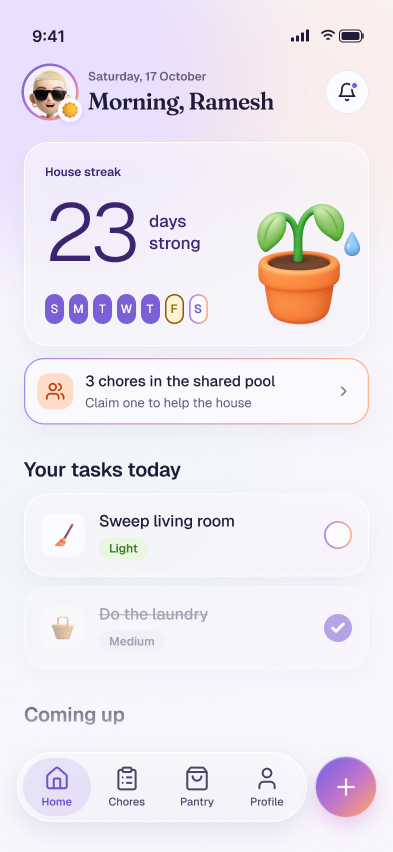
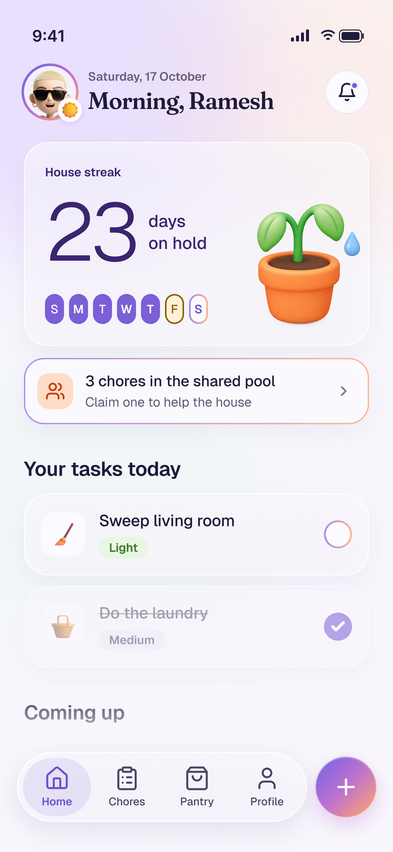
fix(app): a drooping streak says on hold, not strong; droop plant sits in from the edge
- streakWords(): strong while healthy, on hold while a chore is waiting (tested)
- droop art inset so its water drop stays inside the card
- case study: Missed chore screen re-exported with the new copy
- site wall: the You're in confetti screen replaces the plain profile screen

diff --git a/apps/mobile/src/ui/v2/streak.tsx b/apps/mobile/src/ui/v2/streak.tsx
@@ -1,7 +1,7 @@
 import { Image } from 'expo-image';
 import { StyleSheet, View } from 'react-native';
 import Animated, { FadeIn } from 'react-native-reanimated';
-import { plantFor, type PlantStage } from '@/lib/plant';
+import { plantFor, streakWords, type PlantStage } from '@/lib/plant';
 import { durations, useCountUp, useReducedMotion } from '../motion';
 import { color } from '../tokens';
 import { DAY_LETTERS } from './fields';
@@ -35,8 +35,7 @@ function Pill({ state, letter }: { state: DayState; letter: string }) {
 export function StreakCard({ days, week, drooped = false }: { days: number; week: DayState[]; drooped?: boolean }) {
   const reduced = useReducedMotion();
   const stage = plantFor(days, drooped);
-  // zero is a seed just planted (day one, or after a reset), so it invites instead of bragging
-  const words = days === 0 ? ['day', 'let’s grow'] : days === 1 ? ['day', 'together'] : ['days', 'strong'];
+  const words = streakWords(days, drooped);
   const shown = useCountUp(days);
   const fade = reduced ? undefined : FadeIn.duration(durations.enter);
   return (
@@ -58,7 +57,7 @@ ${words[1]}`}</Txt>
           ))}</View>
         </View>
         <View style={styles.art}>
-          <Animated.View key={stage} entering={fade} style={styles.artImage}>
+          <Animated.View key={stage} entering={fade} style={[styles.artImage, drooped && styles.artDroop]}>
             <Image source={PLANT_ART[stage]} style={{ width: '100%', height: '100%' }} contentFit="contain" accessibilityIgnoresInvertColors />
           </Animated.View>
         </View>
@@ -78,4 +77,6 @@ const styles = StyleSheet.create({
   // Figma has it: 16 pt in from the card's right edge, 20 pt from the top, 22 pt from the bottom (191 pt square)
   art: { width: 132, height: 162 },
   artImage: { position: 'absolute', top: -11, right: -36, bottom: -18, left: -23 },
+  // the droop art carries a water drop on its right, so it sits further in to keep the drop off the card edge
+  artDroop: { right: -6, left: -17, top: -2, bottom: -12 },
 });

diff --git a/apps/mobile/src/lib/plant.test.ts b/apps/mobile/src/lib/plant.test.ts
@@ -1,5 +1,5 @@
-import { expect, test } from 'vitest';
-import { milestoneState, plantFor } from './plant';
+import { describe, expect, it, test } from 'vitest';
+import { milestoneState, plantFor, streakWords } from './plant';
 
 test('the plant only changes at the 3, 7, 14 and 30 day milestones', () => {
   expect([0, 2, 3, 6, 7, 13, 14, 29, 30, 120].map((d) => plantFor(d, false)))
@@ -23,4 +23,17 @@ test('a milestone is celebrated once, at the highest one reached', () => {
 test('a broken streak starts a fresh run, so earlier milestones can be earned again', () => {
   expect(milestoneState(3, 7)).toEqual({ celebrate: 3, seen: 0 });
   expect(milestoneState(1, 7)).toEqual({ celebrate: null, seen: 0 });
+});
+
+describe('streakWords', () => {
+  it('says strong while the plant is healthy', () => {
+    expect(streakWords(23, false)).toEqual(['days', 'strong']);
+  });
+  it('says on hold while a chore is waiting, never strong', () => {
+    expect(streakWords(23, true)).toEqual(['days', 'on hold']);
+  });
+  it('keeps the day-one and seed wording', () => {
+    expect(streakWords(0, false)).toEqual(['day', 'let’s grow']);
+    expect(streakWords(1, false)).toEqual(['day', 'together']);
+  });
 });

diff --git a/apps/site/src/sections/Wall.tsx b/apps/site/src/sections/Wall.tsx
@@ -9,7 +9,7 @@ import "./wall.css";
 gsap.registerPlugin(ScrollTrigger);
 
 const COLS: [string, string][][] = [
-  [["01-welcome", "Welcome: make your place feel like home"], ["c2-calendar", "Calendar month with busy days"], ["r1-profile", "Profile and preferences"]],
+  [["01-welcome", "Welcome: make your place feel like home"], ["c2-calendar", "Calendar month with busy days"], ["j4-youre-in", "You’re in: joined the home"]],
   [["h8-add-menu", "Add to your home: a chore, a pantry item, a restock or an invite"], ["h5-chore-done", "A chore ticked off"], ["p3-roommates", "Roommates' shelves"]],
   [["h1-home", "Home: the house streak and today's tasks"], ["p1-pantry", "Pantry: running low and in stock"], ["13-all-set", "Welcome home"]],
   [["11-nudge-style", "Pick your nudges"], ["c3-week", "This week's calendar"], ["h6-all-done", "All done for today"]],

diff --git a/apps/mobile/src/lib/plant.ts b/apps/mobile/src/lib/plant.ts
@@ -17,3 +17,10 @@ export function milestoneState(streak: number, seen: number): { celebrate: numbe
   const reached = [...MILESTONES].filter((m) => m <= streak && m > base).pop() ?? null;
   return { celebrate: reached, seen: base };
 }
+
+/** The two words beside the streak number. A drooping plant never says "strong": the run is on hold until someone catches up. */
+export function streakWords(days: number, drooped: boolean): [string, string] {
+  if (days === 0) return ['day', 'let’s grow'];
+  if (days === 1) return ['day', 'together'];
+  return drooped ? ['days', 'on hold'] : ['days', 'strong'];
+}
